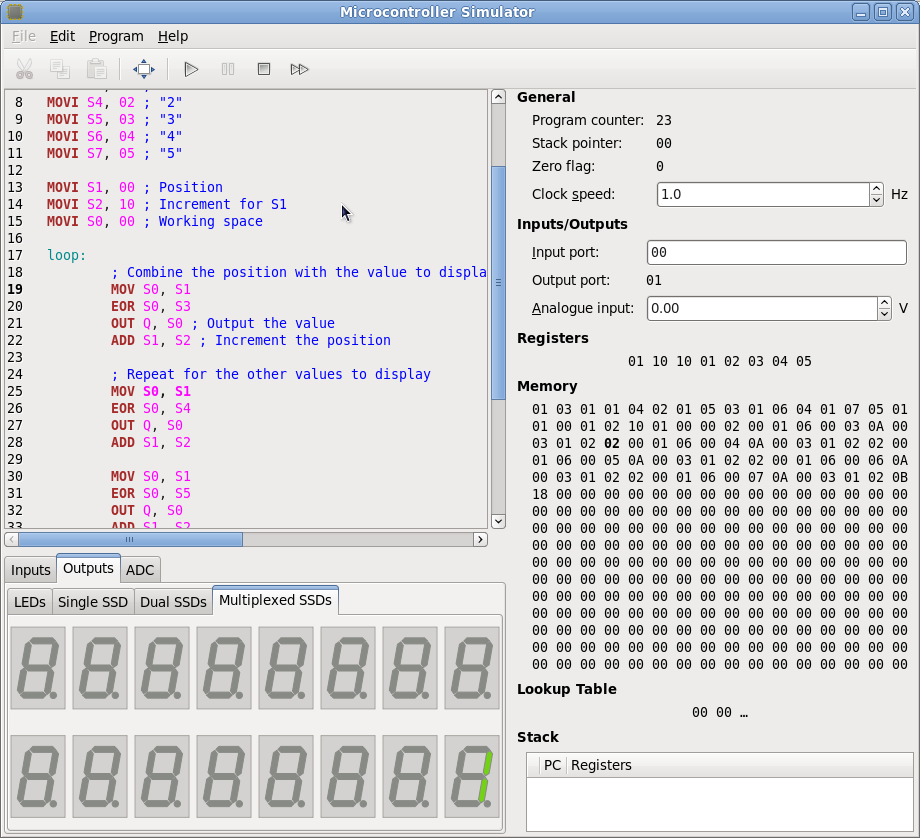
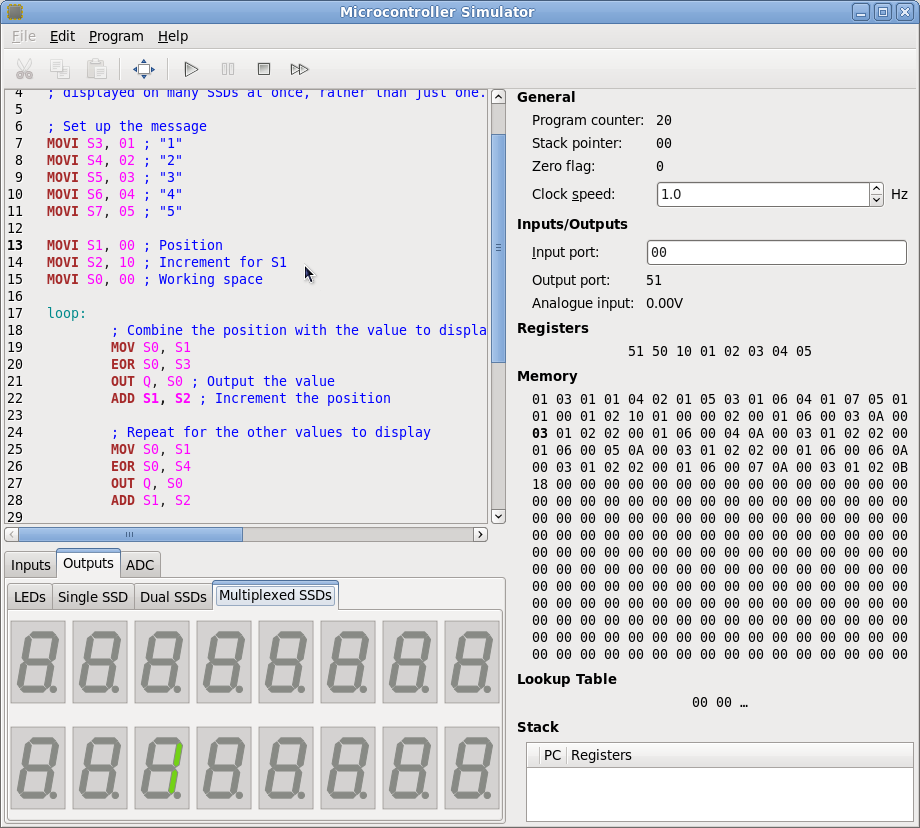
Remove the ADC spin button in the side panel
Replace it with a label which displays the current value at the analogue
input. Update the documentation and screenshots accordingly.

diff --git a/src/main-window.c b/src/main-window.c
@@ -71,6 +71,7 @@ static void notify_program_counter_cb (GObject *object, GParamSpec *param_spec, 
 static void notify_zero_flag_cb (GObject *object, GParamSpec *param_spec, MCUSMainWindow *main_window);
 static void notify_input_port_cb (GObject *object, GParamSpec *param_spec, MCUSMainWindow *main_window);
 static void notify_output_port_cb (GObject *object, GParamSpec *param_spec, MCUSMainWindow *main_window);
+static void notify_analogue_input_cb (GObject *object, GParamSpec *param_spec, MCUSMainWindow *main_window);
 
 /* GtkBuilder callbacks */
 G_MODULE_EXPORT void mw_stack_list_store_row_activated (GtkTreeView *tree_view, GtkTreePath *path,
@@ -132,6 +133,7 @@ struct _MCUSMainWindowPrivate {
 	GtkLabel *program_counter_label;
 	GtkLabel *zero_flag_label;
 	GtkLabel *output_port_label;
+	GtkLabel *analogue_input_label;
 	GtkListStore *stack_list_store;
 	GtkTreeView *stack_tree_view;
 
@@ -182,7 +184,6 @@ struct _MCUSMainWindowPrivate {
 	GtkFileFilter *filter;
 
 	/* Widgets which only need their sensitivity/visibility changing */
-	GtkWidget *adc_spin_button;
 	GtkWidget *clock_speed_spin_button;
 	GtkWidget *adc_hbox;
 	GtkWidget *input_alignment;
@@ -328,6 +329,7 @@ mcus_main_window_new (void)
 	priv->program_counter_label = GTK_LABEL (gtk_builder_get_object (builder, "mw_program_counter_label"));
 	priv->zero_flag_label = GTK_LABEL (gtk_builder_get_object (builder, "mw_zero_flag_label"));
 	priv->output_port_label = GTK_LABEL (gtk_builder_get_object (builder, "mw_output_port_label"));
+	priv->analogue_input_label = GTK_LABEL (gtk_builder_get_object (builder, "mw_analogue_input_label"));
 	priv->stack_list_store = GTK_LIST_STORE (gtk_builder_get_object (builder, "mw_stack_list_store"));
 	priv->stack_tree_view = GTK_TREE_VIEW (gtk_builder_get_object (builder, "mw_stack_tree_view"));
 
@@ -338,7 +340,6 @@ mcus_main_window_new (void)
 
 	/* Grab widgets which only need their sensitivity changing */
 	priv->code_view = GTK_WIDGET (gtk_builder_get_object (builder, "mw_code_view"));
-	priv->adc_spin_button = GTK_WIDGET (gtk_builder_get_object (builder, "mw_analogue_input_spin_button"));
 	priv->clock_speed_spin_button = GTK_WIDGET (gtk_builder_get_object (builder, "mw_clock_speed_spin_button"));
 	priv->adc_hbox = GTK_WIDGET (gtk_builder_get_object (builder, "mw_adc_hbox"));
 	priv->input_alignment = GTK_WIDGET (gtk_builder_get_object (builder, "mw_input_alignment"));
@@ -443,6 +444,7 @@ mcus_main_window_new (void)
 	g_signal_connect (priv->simulation, "notify::zero-flag", (GCallback) notify_zero_flag_cb, main_window);
 	g_signal_connect (priv->simulation, "notify::input-port", (GCallback) notify_input_port_cb, main_window);
 	g_signal_connect (priv->simulation, "notify::output-port", (GCallback) notify_output_port_cb, main_window);
+	g_signal_connect (priv->simulation, "notify::analogue-input", (GCallback) notify_analogue_input_cb, main_window);
 
 	/* Make some widgets monospaced */
 	style = gtk_widget_get_style (priv->code_view);
@@ -1021,7 +1023,6 @@ notify_simulation_state_cb (GObject *object, GParamSpec *param_spec, MCUSMainWin
 	/* Update the UI */
 	SET_SENSITIVITY_W (code_view, stopped);
 	SET_SENSITIVITY_W (input_port_entry, not_running);
-	SET_SENSITIVITY_W (adc_spin_button, not_running);
 	SET_SENSITIVITY_W (clock_speed_spin_button, not_running);
 	SET_SENSITIVITY_W (adc_hbox, not_running);
 	SET_SENSITIVITY_W (input_alignment, not_running);
@@ -1162,6 +1163,20 @@ notify_output_port_cb (GObject *object, GParamSpec *param_spec, MCUSMainWindow *
 	update_outputs (main_window);
 }
 
+static void
+notify_analogue_input_cb (GObject *object, GParamSpec *param_spec, MCUSMainWindow *main_window)
+{
+	/* 3 characters for two hexadecimal characters and one \0 */
+	gchar *text;
+	gdouble analogue_input = mcus_simulation_get_analogue_input (MCUS_SIMULATION (object));
+
+	/* Update the output port label */
+	/* Translators: This is the analogue input label, a value in Volts. */
+	text = g_strdup_printf (_("%.2fV"), analogue_input);
+	gtk_label_set_text (main_window->priv->analogue_input_label, text);
+	g_free (text);
+}
+
 G_MODULE_EXPORT gboolean
 mw_delete_event_cb (GtkWidget *widget, GdkEvent *event, MCUSMainWindow *main_window)
 {
@@ -1290,6 +1305,7 @@ mw_fullscreen_activate_cb (GtkAction *self, MCUSMainWindow *main_window)
 		modify_widget_font_size (GTK_WIDGET (priv->memory_array), 1.0 / FULLSCREEN_FONT_SCALE);
 		modify_widget_font_size (GTK_WIDGET (priv->lookup_table_array), 1.0 / FULLSCREEN_FONT_SCALE);
 		modify_widget_font_size (GTK_WIDGET (priv->output_port_label), 1.0 / FULLSCREEN_FONT_SCALE);
+		modify_widget_font_size (GTK_WIDGET (priv->analogue_input_label), 1.0 / FULLSCREEN_FONT_SCALE);
 		modify_widget_font_size (GTK_WIDGET (priv->program_counter_label), 1.0 / FULLSCREEN_FONT_SCALE);
 		modify_widget_font_size (GTK_WIDGET (priv->zero_flag_label), 1.0 / FULLSCREEN_FONT_SCALE);
 		modify_widget_font_size (GTK_WIDGET (priv->stack_pointer_label), 1.0 / FULLSCREEN_FONT_SCALE);
@@ -1308,6 +1324,7 @@ mw_fullscreen_activate_cb (GtkAction *self, MCUSMainWindow *main_window)
 		modify_widget_font_size (GTK_WIDGET (priv->memory_array), FULLSCREEN_FONT_SCALE);
 		modify_widget_font_size (GTK_WIDGET (priv->lookup_table_array), FULLSCREEN_FONT_SCALE);
 		modify_widget_font_size (GTK_WIDGET (priv->output_port_label), FULLSCREEN_FONT_SCALE);
+		modify_widget_font_size (GTK_WIDGET (priv->analogue_input_label), FULLSCREEN_FONT_SCALE);
 		modify_widget_font_size (GTK_WIDGET (priv->program_counter_label), FULLSCREEN_FONT_SCALE);
 		modify_widget_font_size (GTK_WIDGET (priv->zero_flag_label), FULLSCREEN_FONT_SCALE);
 		modify_widget_font_size (GTK_WIDGET (priv->stack_pointer_label), FULLSCREEN_FONT_SCALE);
